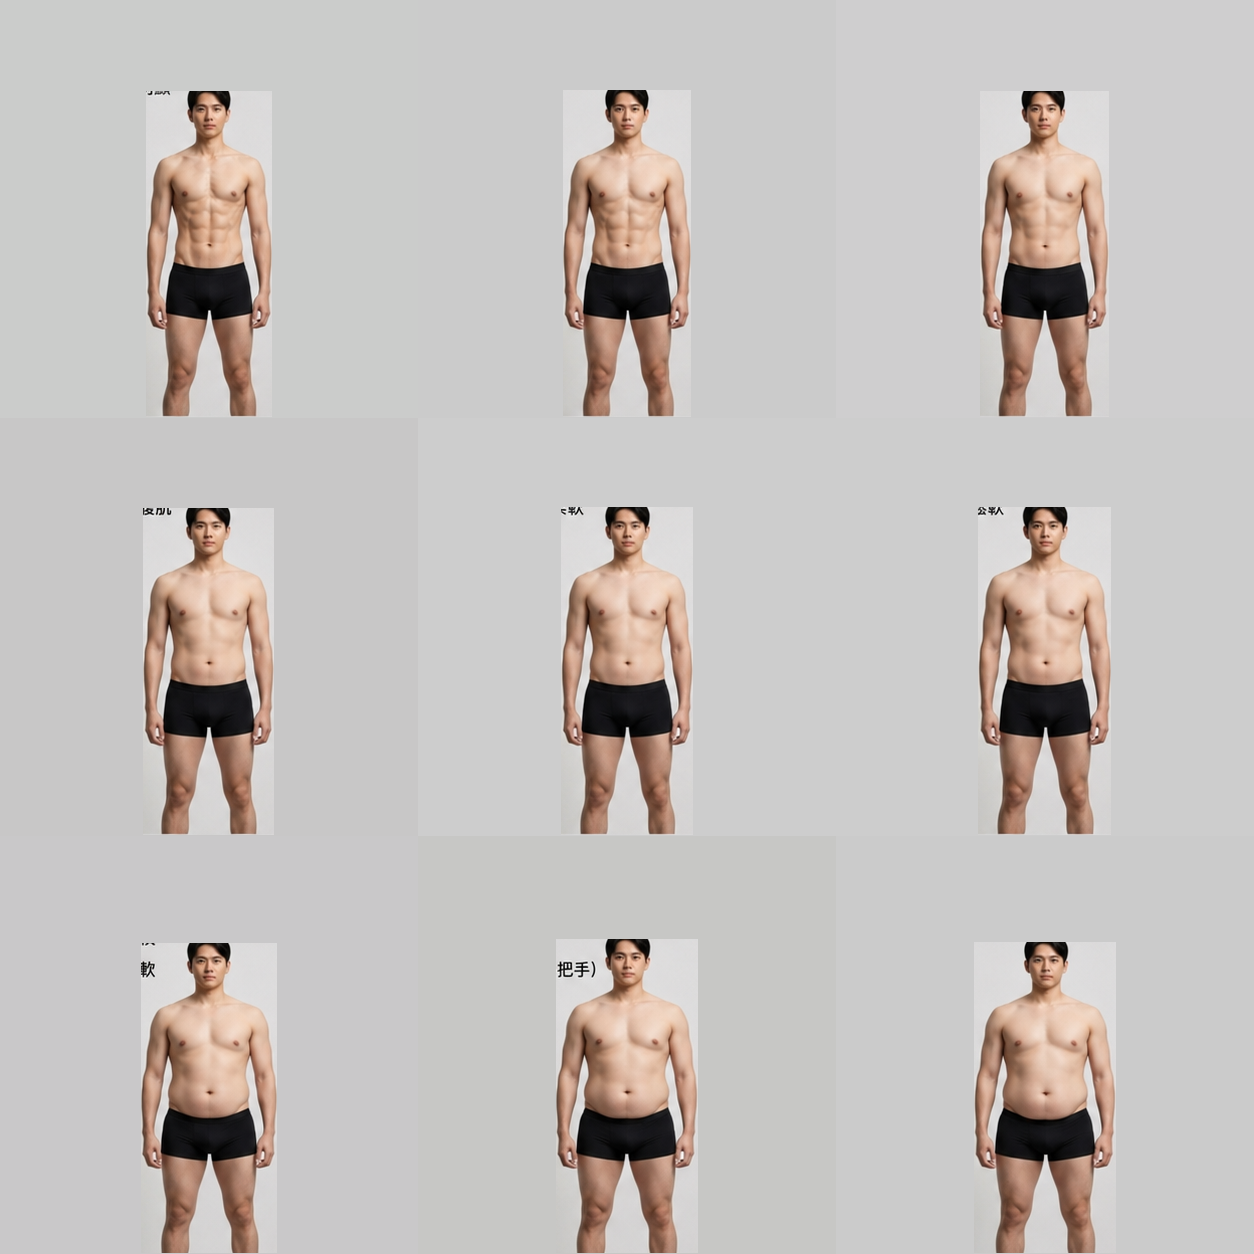
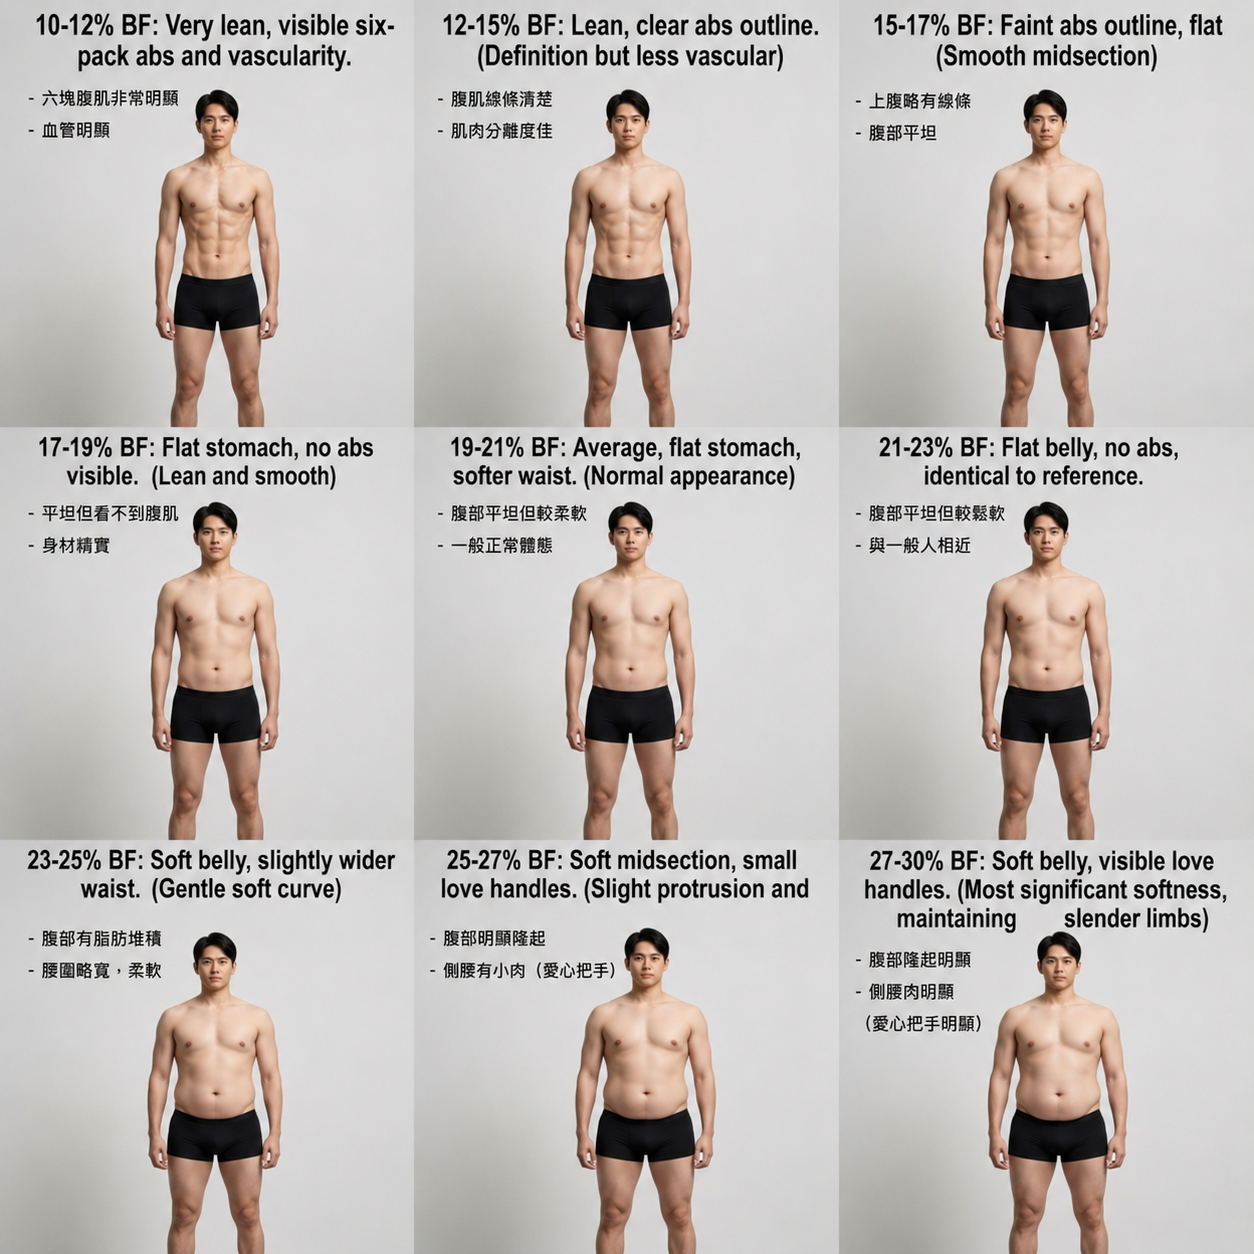
Add files via upload

diff --git a/app.js b/app.js
@@ -904,6 +904,19 @@ document.addEventListener('DOMContentLoaded', () => {
     ]
   };
 
+  // Custom positioning overrides for male_body_shapes_10_30_grid.png due to slight grid offsets in source image
+  const MALE_SPRITE_POSITIONS = [
+    { x: 0.8971, y: 1.3158 }, // Preset 0 (#1)
+    { x: 50.0598, y: 1.3158 }, // Preset 1 (#2)
+    { x: 100.1196, y: 1.3158 }, // Preset 2 (#3)
+    { x: 0.7177, y: 50.7177 }, // Preset 3 (#4)
+    { x: 50.2990, y: 50.7177 }, // Preset 4 (#5)
+    { x: 100.0000, y: 50.7177 }, // Preset 5 (#6)
+    { x: 0.6579, y: 100.1196 }, // Preset 6 (#7)
+    { x: 52.2129, y: 100.1196 }, // Preset 7 (#8)
+    { x: 101.4952, y: 100.1196 }  // Preset 8 (#9)
+  ];
+
   // Distance helper to find closest body preset to current stats
   function getClosestPresetIndex(gender, userMuscleRatio, userFatPercent) {
     const presets = BODY_PRESETS[gender] || BODY_PRESETS.male;
@@ -1503,10 +1516,9 @@ document.addEventListener('DOMContentLoaded', () => {
       const presets = BODY_PRESETS.male;
       const preset = presets[closestIdx];
       
-      // 3x3 grid position
-      const row = Math.floor(closestIdx / 3);
-      const col = closestIdx % 3;
-      spriteDiv.style.backgroundPosition = `${col * 50}% ${row * 50}%`;
+      // Custom 3x3 grid position offsets for male sprite sheet
+      const customPos = MALE_SPRITE_POSITIONS[closestIdx];
+      spriteDiv.style.backgroundPosition = `${customPos.x}% ${customPos.y}%`;
       
       // Micro-morphing
       const fatDiff = fatPercent - preset.fatPercent;
@@ -1579,7 +1591,14 @@ document.addEventListener('DOMContentLoaded', () => {
         const isMale = gender === 'male';
         const imgUrl = isMale ? './male_body_shapes_10_30_grid.png' : './female_body_shapes.png';
         const bgSize = '300% 300%';
-        const bgPos = `${(idx % 3) * 50}% ${Math.floor(idx / 3) * 50}%`;
+        
+        let bgPos;
+        if (isMale) {
+          const customPos = MALE_SPRITE_POSITIONS[idx];
+          bgPos = `${customPos.x}% ${customPos.y}%`;
+        } else {
+          bgPos = `${(idx % 3) * 50}% ${Math.floor(idx / 3) * 50}%`;
+        }
         
         cell.innerHTML = `
           <span class="num-label">#${idx + 1} ${p.label}</span>

diff --git a/index.html b/index.html
@@ -17,7 +17,7 @@
   <link href="https://fonts.googleapis.com/css2?family=Plus+Jakarta+Sans:wght@300;400;500;600;700;800&family=Outfit:wght@200;300;400;500;600;700;800&display=swap" rel="stylesheet">
   
   <!-- CSS Styling -->
-  <link rel="stylesheet" href="style.css?v=20260623_1437">
+  <link rel="stylesheet" href="style.css?v=20260623_2236">
 </head>
 <body>
 
@@ -1250,6 +1250,6 @@
   <!-- Chart.js CDN -->
   <script src="https://cdn.jsdelivr.net/npm/chart.js"></script>
   <!-- JavaScript Application Logic -->
-  <script src="app.js?v=20260623_1437"></script>
+  <script src="app.js?v=20260623_2236"></script>
 </body>
 </html>